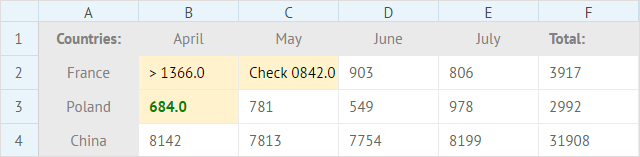
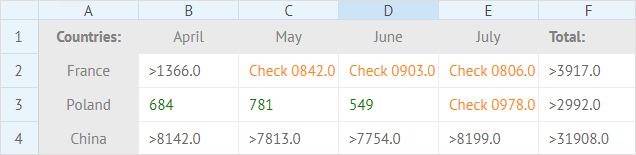
[update] refresh the number formatting chapter

diff --git a/formatting_numbers.md b/formatting_numbers.md
@@ -1,15 +1,15 @@
-##Default Number Formats
+##Default Number Format
 
 To differentiate between types of numbers, you can apply a corresponding format to them. There are the following formats available:
 
-- *Common* - a simple number
+- *Common* - no formatting
 - *Currency* - a format to display a number as currency ($)
 - *Number* - a format to display a number with delimited tens, hundreds and thousands
 - *Percent* - a format to display a number as percentage (%)
 
 ![Applying Currency Number Format](img/currency_number_format.png)
 
-To apply a number format to cell values:
+To apply some of the default number formats to a cell value:
 
 1) Select a cell or a range of cells to format.
 
@@ -21,47 +21,74 @@ To apply a number format to cell values:
 
 ![Default Number Format Options](img/number_format_options.png)
 
+###Customizing Default Formats
+
+You can customize the predefined formats in the following ways:
+
+- define the number of decimal places
+- show or hide group separators (for the *Currency* and *Number* formats)
+- define the styling of negative values
+
+To customize a predefined number format:
+
+1) Select a cell or a range of cells to apply a custom format to.
+
+2) Click the **Number format** button in the **Number** section: 
+
+![Custom Format Option](img/custom_format_option.png)     
+
+3) Select *Currency*, *Number* or *Percent*:
+
+![Currency Format Settings](img/default_format_settings.png)
+
+4) Define settings for the chosen format and click **Save**.
+
 ##Custom Number Format
 
 If you feel limited by the embedded number formats, you can create your own format. 
 
 ![Custom Number Formatting](img/custom_format_result.png)
 
-The added format should consist of up to 4 sections of code, separated by semicolons (;). Each code section can include:
+To set a custom format to cell values:
 
-- a condition to compare a cell value with
-- a necessary format for a cell
-- a style that will be applied to a cell 
-- a text that should be displayed in a cell
+1) Select a cell or a range of cells to apply a custom format to.
+
+2) Click the **Number format** button in the **Number** section and select the *Custom* option: 
+
+![Custom Format Option](img/custom_format_option.png)     
+
+3) In the appeared popup:
+
+- Specify a custom format pattern and press **Enter** or click outside the input to preview result.
+- Click **Save** to apply the custom format to the cell/cells value(s).
+
+![Custom Format Pattern](img/custom_format_settings.png)
+
+### Custom format structure
+
+A custom format may consist of several code sections, separated by semicolons (;). Each code section can include:
+
+- **[condition]** in square brackets - e.g. [>1000], to compare the cell value with
+- **[color]** in square brackets - e.g. [blue]
+- **format** as a set of zeros (e.g. 0.0;) 
+- **text** - e.g. Text, that should be displayed in this cell
+
+>####Note
+>
+>If there are both the condition and the color sections, the condition must go first.
 
 For example:
 
 `[>1000][red];[>100][green]0.0;[blue] Small`
 
-The details are given in the section **Custom Format Rules**.
+In the spreadsheet below:
 
-###How to Apply
-
-To set a custom format to cell values:
-
-1) Select a cell or a range of cells to apply a custom format to.
-
-2) Click the **Custom format** button: 
-
-![Custom Format Button](img/custom_format_button.png)     
-
-3) In the appeared popup enter the new format for the cells and click **Save**.
-
-![Set Format Popup](img/custom_format_popup.png)
-
-For example, for the selected cells in a spreadsheet:
-
-![Custom Number Formatting](img/custom_format_result.png)
+![Custom Number Formatting](img/custom_format_example.png)
 
 The following custom format patterns are applied:
 
-1. For the cells **B2** and **C2**: *[>1000]> 0.0;[>100]Check 0,000.0#;[=0]Nope;*
-2. For the cell **B3**: *[>1000][red];[>100][green]0.0;[blue] Small;*
+1. For the cells **B2**-**C2**: *[>1000]> 0.0;[>100][orange]Check 0,000.0#*
+2. For the cell **B3**-**D3**: *[>1000][red];[>700][green]0.0;[blue]Small*
 
 ###Custom Format Rules
 
@@ -69,7 +96,7 @@ The code sections of the custom number format are set according to the rules giv
 
 1) **Conditions**
 
-To apply a format to a number only if it meets the specified condition, place this condition inside of square brackets as in:
+To apply a format to a number only if it meets the specified condition, specify a condition inside of square brackets. It should contain a comparison operator and a value:
 
 `[>1000]> 0.0;`
 
@@ -81,9 +108,10 @@ To apply a particular custom number format to the value of a formatted cell, def
 
 `[>100]0,000.00`
 
+
 3) **Colors**
 
-To define a color for a particular section of a format, put the desired color name into square brackets as follows:
+To specify the color for a section of the format, type the name of one of the available colors (*green*, *red*, *blue*, *orange*, *black*, *violet* or *magenta*) enclosed in square brackets in the section. The color code must be the second item in the section (after the condition).
 
 `[>1000][red];[>100][green]0.0;`
 
@@ -98,6 +126,7 @@ In case you need to add text into some section, you can type it as it is. The on
 
 - **0 (zero)** - the digit placeholder to display insignificant zeros, if a number has fewer digits than there are zeros in the format. For example, to display **4** as **4.0**, use the format **0.0**.
 - **#** - the digit placeholder to display only significant numbers (not to display extra zeros when the number has fewer digits than there are **#** symbols in the format).
+- **?** - works the same as 0 (zero), but adds a space for insignificant zeros on either side of the decimal point so that decimal points are aligned in the column.
 - **.** (period) - the digit placeholder to display the decimal point in a number.
 - **,** (comma) - the digit placeholder to display the thousands separator in a number.
 
